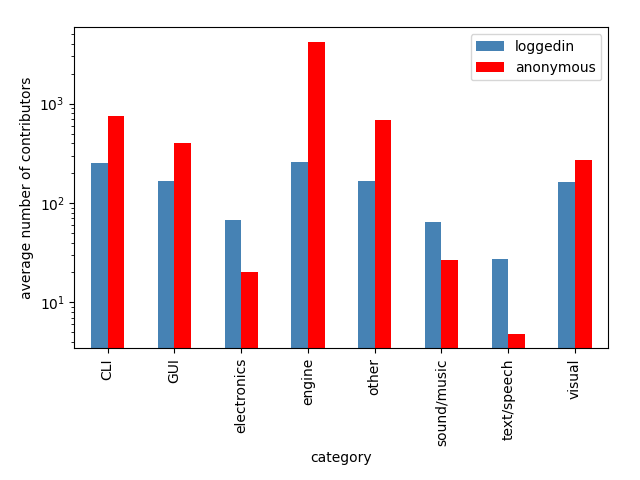
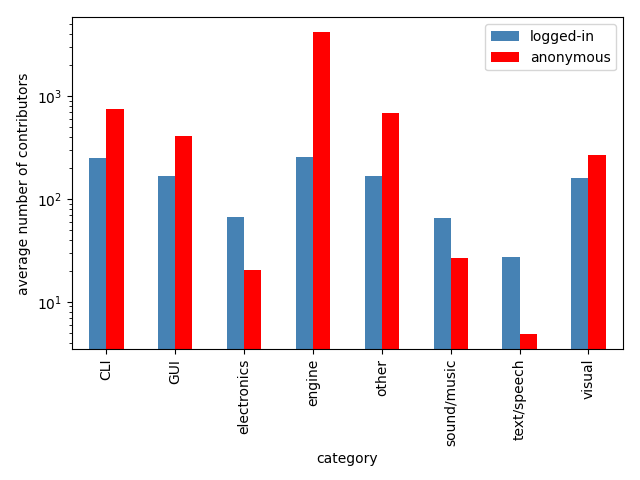
add exclusive repos barplot + sort categories alphabetically

diff --git a/code/myriad/loam_paper/visualization/script.py b/code/myriad/loam_paper/visualization/script.py
@@ -8,6 +8,8 @@ all_loggedin_contributors = pd.read_json("../dataset/all_loggedin_contributors.j
 
 with open("../dataset/categories_info.json", "r") as f:
 	categories_info = json.load(f)
+category_names = [c["category"] for c in categories_info]
+category_names.sort()
 
 def avg_contributors_per_category_barplot():
     # average number of anon/loggedin contributors per category
@@ -48,14 +50,16 @@ def repos_per_year_barplot():
     # number of repos created per year
     minYear = repos_info["created_at"].min().year
     maxYear = repos_info["created_at"].max().year
-    data = [{"year": y} for y in range(minYear, maxYear+1)]
+    data = []
+    for y in range(minYear, maxYear+1):
+        o = {"year": y}
+        for cat in category_names:
+            o[cat] = 0
+        data.append(o)
     for index, row in repos_info.iterrows():
         year = row["created_at"].year
         cat = row["category"]
-        try:
-            data[year-minYear][cat] += 1
-        except KeyError:
-            data[year-minYear][cat] = 1
+        data[year-minYear][cat] += 1
     data = pd.DataFrame(data)
     data.set_index("year").plot(kind="bar", stacked=True)
     plt.xlabel("year of creation/apparition on GitHub")
@@ -80,7 +84,33 @@ def multi_contributors_barplot():
     plt.ylabel("user count")
     plt.show()
 
+def exclusive_repos_per_artwork_barplot():
+    # number of exclusive repos per artwork
+    artworks = list(set(repos_info.loc[:,"exclusivity"]))
+    artworks.remove(None)
+    artworks.remove("loam")
+    artworks.sort()
+    data = []
+    for a in ["A ... past", "Apocryph", "Dear Ai", "Glommen", "... Sand Sorter", "Megatouch", "Pain", "RELAX...", "Why ... this?"]:
+        o = {"exclusivity": a}
+        for cat in category_names:
+            o[cat] = 0
+        data.append(o)
+    for index, row in repos_info.iterrows():
+        exclusivity = row["exclusivity"]
+        if exclusivity in [None, "loam"]: continue
+        idx = artworks.index(exclusivity)
+        category = row["category"]
+        data[idx][category] += 1
+    data = pd.DataFrame(data)
+    data.set_index("exclusivity").plot(kind="bar", stacked=True)
+    plt.xlabel("artworks")
+    plt.ylabel("number of exclusive repositories")
+    plt.legend(title="category")
+    plt.show()
+
 avg_contributors_per_category_barplot()
 #contributions_years_scatterplot()
 repos_per_year_barplot()
 multi_contributors_barplot()
+exclusive_repos_per_artwork_barplot()
